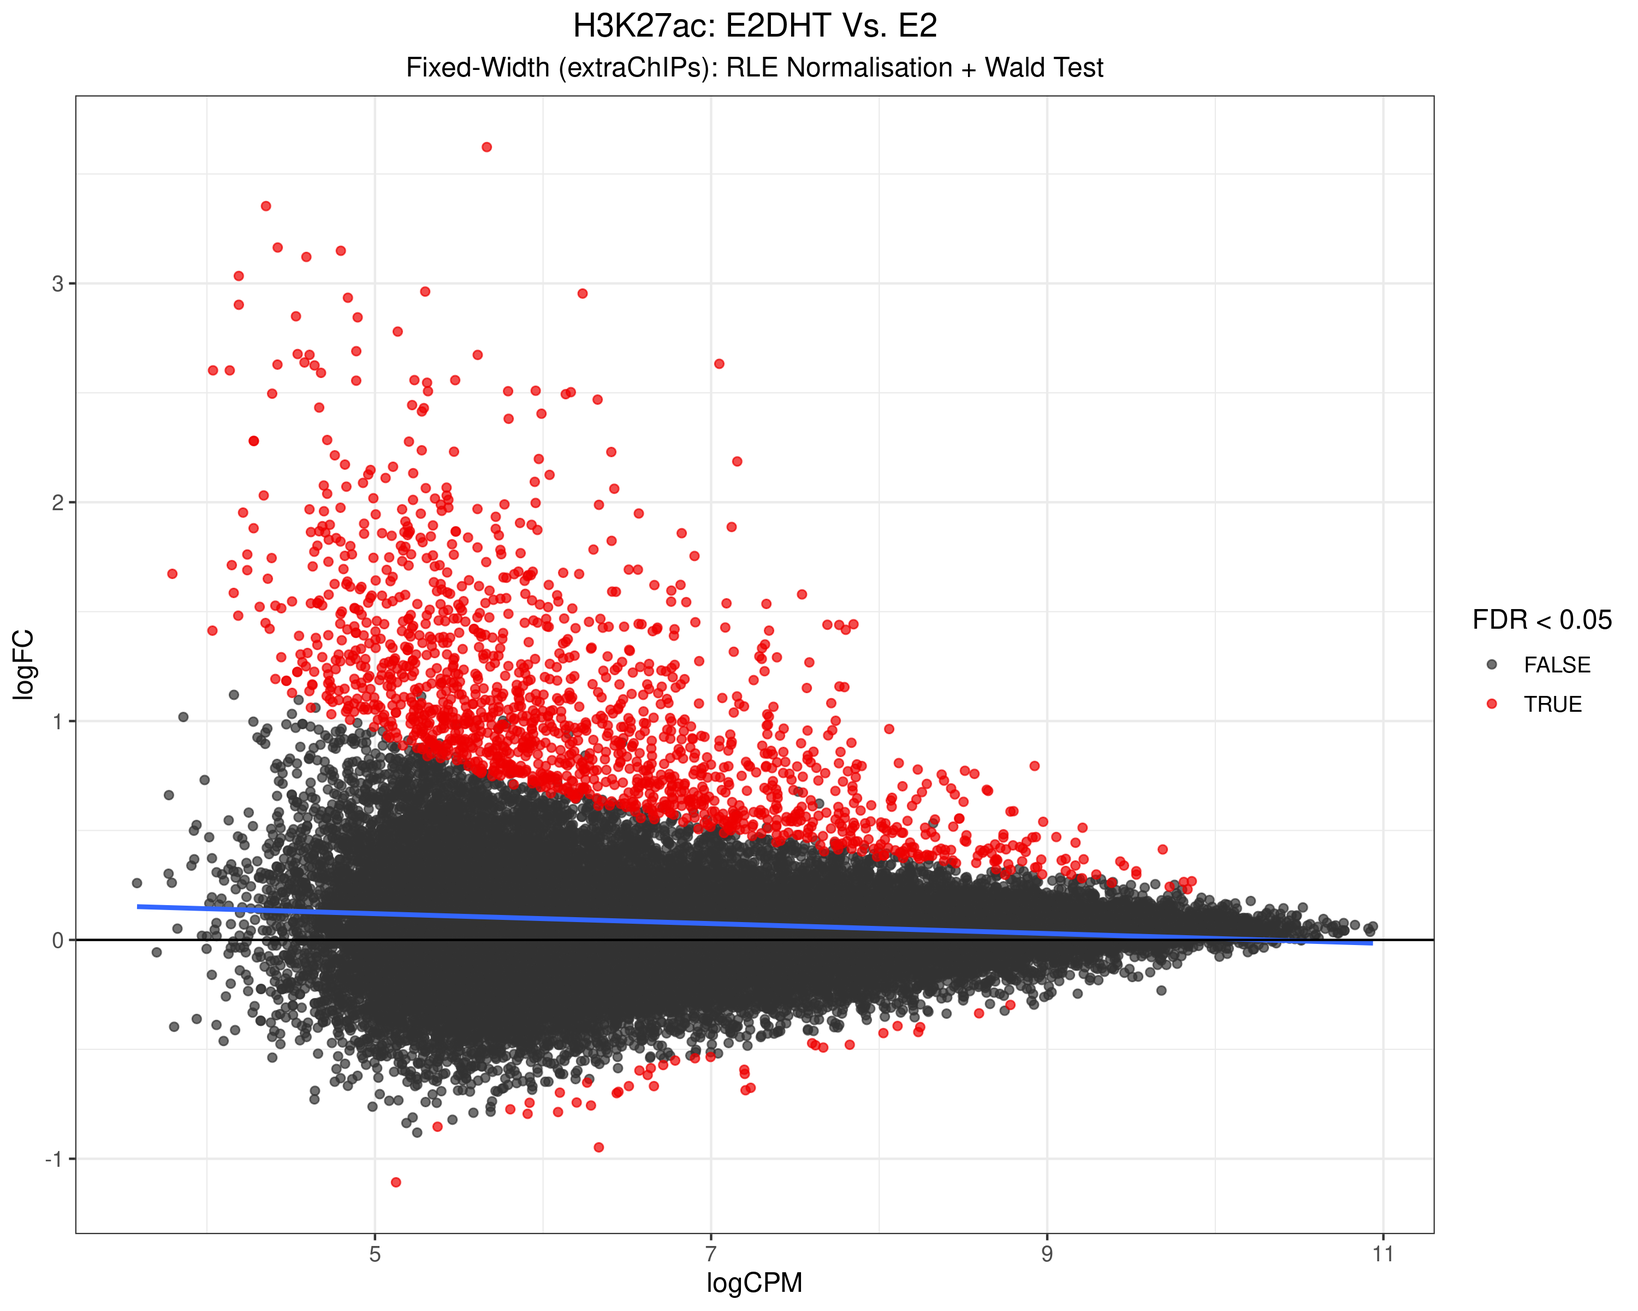
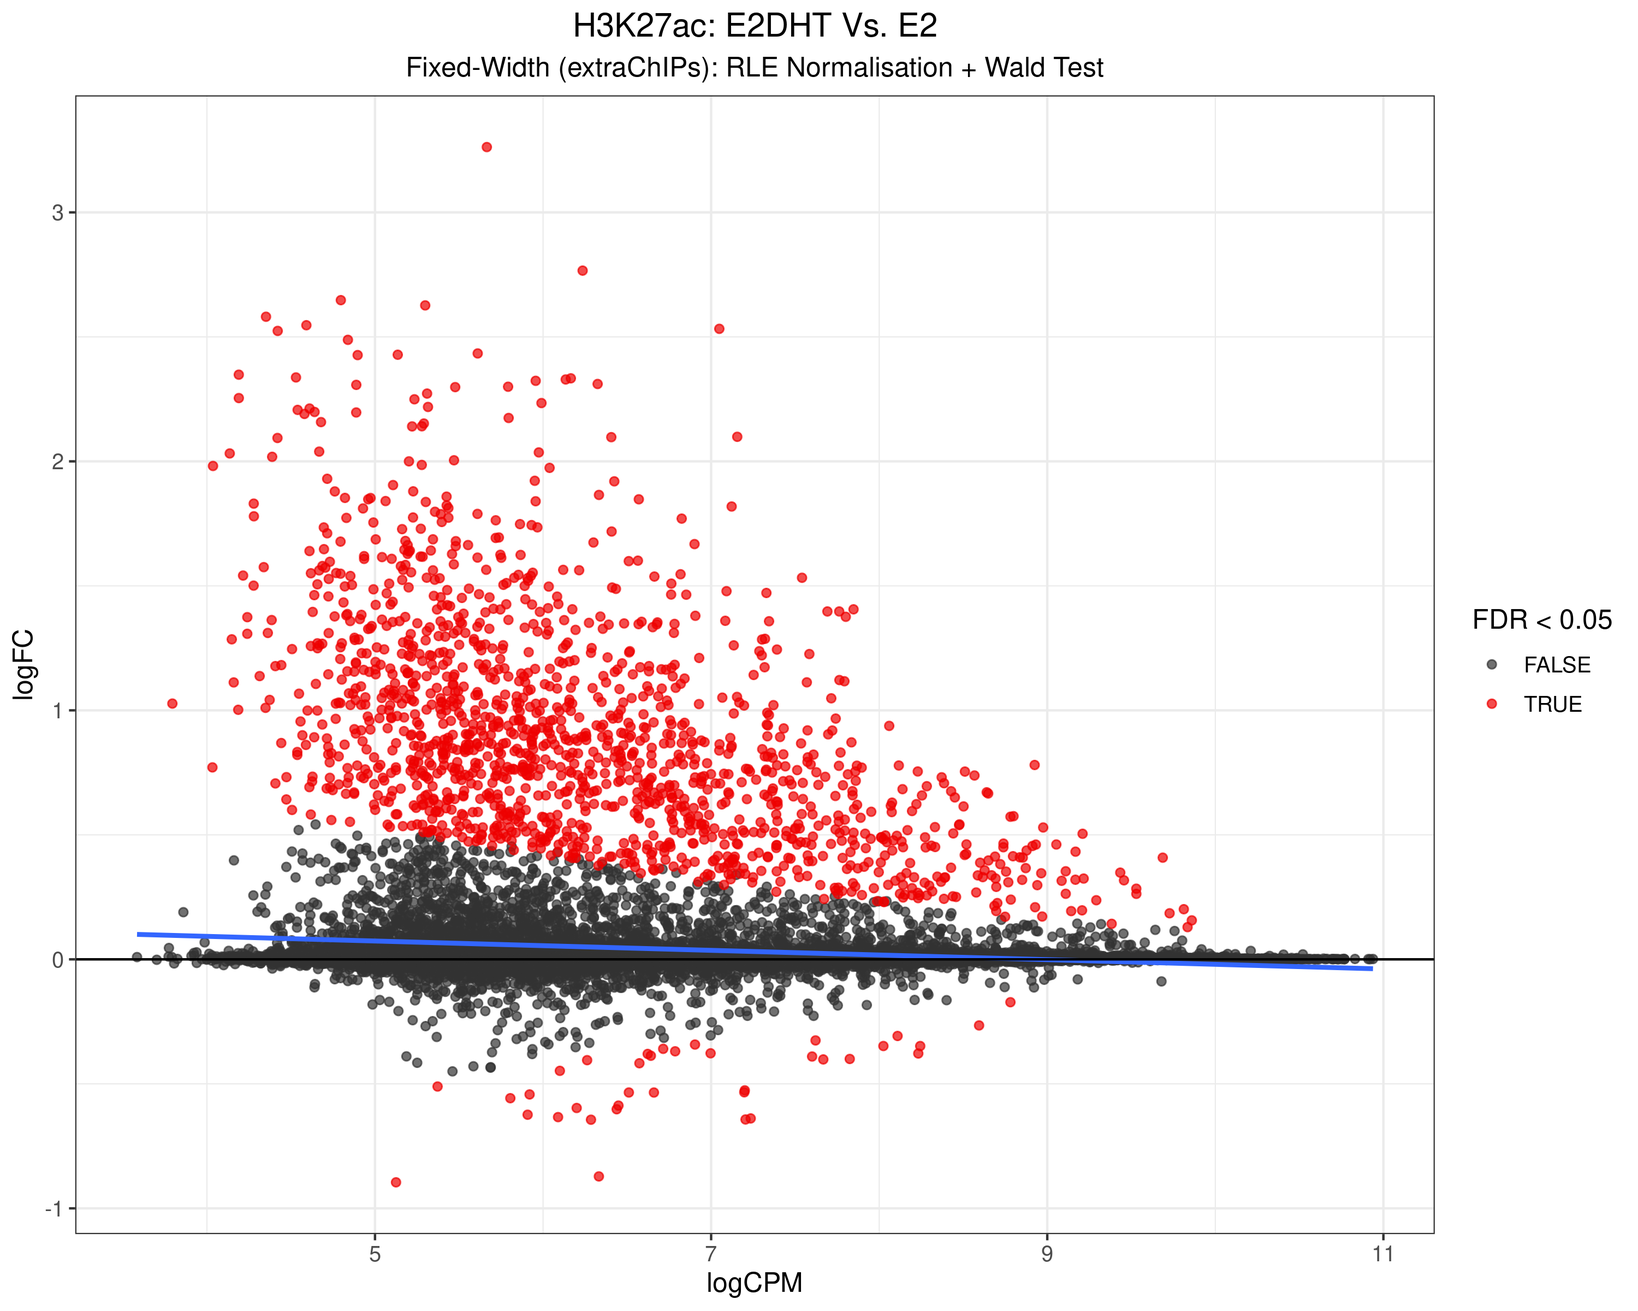
Rewrote after updating extraChIPs

Changed region(s): [[0.062, 0.2188, 0.868, 0.875], [0.31, 0.2812, 0.372, 0.3125]]

diff --git a/docs/zr75_ar_e2_e2dht.html b/docs/zr75_ar_e2_e2dht.html
@@ -1113,6 +1113,7 @@ ec_sw_params &lt;- ec_sw_tbl_params %&gt;%
   lapply(
     \(x) {
       x$design &lt;- X
+      x$type &lt;- &quot;ashr&quot;
       x[!names(x) %in% c(&quot;abbr&quot;, &quot;quantro_flag&quot;)]
     }
   )
@@ -1363,8 +1364,8 @@ browsable(tagList(cp, tbl))</code></pre>
 <caption>
 <em>Characteristics of ranges included for analysis using sliding or fixed-width windows. Ranges uniquely included in only one approach tended to be narrower with lower signal intensity,  comfirming that for ranges with strong signal, they are well-captured by either method.</em>
 </caption>
-<div class="reactable html-widget html-fill-item" id="htmlwidget-bdb7863a3d3afbd042b6" style="width:auto;height:auto;"></div>
-<script type="application/json" data-for="htmlwidget-bdb7863a3d3afbd042b6">{"x":{"tag":{"name":"Reactable","attribs":{"data":{"detected":["Both","Sliding Only","Fixed Only"],"n":[14399,6549,329],"sliding_total":[6615.8,1554.65,"NA"],"fixed_total":[4934.308,"NA",71.78],"sliding_w":[450,200,"NA"],"fixed_w":[312,"NA",207],"sliding_logCPM":[-0.487736039510811,-0.85068546419633,"NA"],"fixed_logCPM":[0.0491523793471069,"NA",-0.854809276201809]},"columns":[{"id":"detected","name":"Detected In","type":"character"},{"id":"n","name":"Total Ranges","type":"numeric"},{"id":"sliding_total","name":"Sliding","type":"numeric","format":{"cell":{"digits":1,"separators":true},"aggregated":{"digits":1,"separators":true}}},{"id":"fixed_total","name":"Fixed","type":"numeric","format":{"cell":{"digits":1,"separators":true},"aggregated":{"digits":1,"separators":true}}},{"id":"sliding_w","name":"Sliding","type":"numeric","format":{"cell":{"separators":true},"aggregated":{"separators":true}}},{"id":"fixed_w","name":"Fixed","type":"numeric","format":{"cell":{"separators":true},"aggregated":{"separators":true}}},{"id":"sliding_logCPM","name":"Sliding","type":"numeric","format":{"cell":{"digits":3},"aggregated":{"digits":3}}},{"id":"fixed_logCPM","name":"Fixed","type":"numeric","format":{"cell":{"digits":3},"aggregated":{"digits":3}}}],"columnGroups":[{"name":"Total Width (kb)","columns":["sliding_total","fixed_total"]},{"name":"Median Width (bp)","columns":["sliding_w","fixed_w"]},{"name":"Median logCPM","columns":["sliding_logCPM","fixed_logCPM"]}],"dataKey":"8f08ee4feb78560cad386740e4039c84"},"children":[]},"class":"reactR_markup"},"evals":[],"jsHooks":[]}</script>
+<div class="reactable html-widget html-fill-item" id="htmlwidget-ed89d667f3ad896512f7" style="width:auto;height:auto;"></div>
+<script type="application/json" data-for="htmlwidget-ed89d667f3ad896512f7">{"x":{"tag":{"name":"Reactable","attribs":{"data":{"detected":["Both","Sliding Only","Fixed Only"],"n":[14399,6549,329],"sliding_total":[6615.8,1554.65,"NA"],"fixed_total":[4934.308,"NA",71.78],"sliding_w":[450,200,"NA"],"fixed_w":[312,"NA",207],"sliding_logCPM":[-0.487736039510811,-0.85068546419633,"NA"],"fixed_logCPM":[0.0491523793471069,"NA",-0.854809276201809]},"columns":[{"id":"detected","name":"Detected In","type":"character"},{"id":"n","name":"Total Ranges","type":"numeric"},{"id":"sliding_total","name":"Sliding","type":"numeric","format":{"cell":{"digits":1,"separators":true},"aggregated":{"digits":1,"separators":true}}},{"id":"fixed_total","name":"Fixed","type":"numeric","format":{"cell":{"digits":1,"separators":true},"aggregated":{"digits":1,"separators":true}}},{"id":"sliding_w","name":"Sliding","type":"numeric","format":{"cell":{"separators":true},"aggregated":{"separators":true}}},{"id":"fixed_w","name":"Fixed","type":"numeric","format":{"cell":{"separators":true},"aggregated":{"separators":true}}},{"id":"sliding_logCPM","name":"Sliding","type":"numeric","format":{"cell":{"digits":3},"aggregated":{"digits":3}}},{"id":"fixed_logCPM","name":"Fixed","type":"numeric","format":{"cell":{"digits":3},"aggregated":{"digits":3}}}],"columnGroups":[{"name":"Total Width (kb)","columns":["sliding_total","fixed_total"]},{"name":"Median Width (bp)","columns":["sliding_w","fixed_w"]},{"name":"Median logCPM","columns":["sliding_logCPM","fixed_logCPM"]}],"dataKey":"8f08ee4feb78560cad386740e4039c84"},"children":[]},"class":"reactR_markup"},"evals":[],"jsHooks":[]}</script>
 <div id="range-widths" class="section level4">
 <h4>Range Widths</h4>
 <pre class="r"><code>GRangesList(
@@ -2167,7 +2168,7 @@ tbl &lt;- all_sig %&gt;%
     quantro_status = case_when(
       grepl(sprintf(&quot;^\u02D9&quot;), quantro_flag ) ~ &quot;Caution&quot;,
       grepl(&quot;^\\*&quot;, quantro_flag) ~ &quot;Inappropriate&quot;,
-      TRUE ~ &quot;Appropriate&quot;
+      TRUE ~ &quot;Suitable&quot;
     )
   ) %&gt;% 
   arrange(desc(value)) %&gt;% 
@@ -2217,7 +2218,7 @@ analysis. The status of the model as assessed using quantro is provided in
 the final column.</em>
 </caption>
 <div class="reactable html-widget html-fill-item" id="tbl-ranks" style="width:auto;height:auto;"></div>
-<script type="application/json" data-for="tbl-ranks">{"x":{"tag":{"name":"Reactable","attribs":{"data":{"rank":[1,2,3,4,5,6,7,8,9,10,11,12,13,14,15,16],"package":["extraChIPs","extraChIPs","extraChIPs","extraChIPs","extraChIPs","extraChIPs","extraChIPs","extraChIPs","DiffBind","extraChIPs","extraChIPs","extraChIPs","extraChIPs","extraChIPs","DiffBind","extraChIPs"],"windows":["Sliding","Sliding","Sliding","Fixed-Width","Fixed-Width","Fixed-Width","Sliding","Fixed-Width","Fixed-Width","Sliding","Sliding","Fixed-Width","Fixed-Width","Sliding","Fixed-Width","Fixed-Width"],"norm":["Library Size","Library Size","Smooth Quantile","Library Size","Library Size","RLE-Grouped","Library Size","Library Size","Library Size","RLE","RLE","RLE","RLE","RLE","RLE","RLE"],"method":["glmQLF","limma-trend","limma-trend","limma-trend","glmQLF","glmQLF","Wald Test","Wald Test","Wald Test","glmQLF","limma-trend","glmQLF","limma-trend","Wald Test","Wald Test","Wald Test"],"assay":["counts","logCPM","qsmooth","logCPM","counts","counts","counts","counts","counts","counts","logCPM (RLE)","counts","logCPM (RLE)","counts","counts","counts"],"n_sig":[14499,14474,14406,12832,12824,12799,12529,12216,12201,8470,6298,5748,4823,4376,4016,3905],"range_null":[13244,12903,12749,12004,12102,12065,15087,14532,11437,6242,3790,3994,2983,2307,2673,2642],"quantro_status":["Appropriate","Appropriate","Appropriate","Appropriate","Appropriate","Appropriate","Appropriate","Appropriate","Appropriate","Inappropriate","Inappropriate","Inappropriate","Inappropriate","Inappropriate","Inappropriate","Inappropriate"]},"columns":[{"id":"rank","name":"Rank","type":"numeric","html":true,"filterMethod":"function(rows, columnId, filterValue) {\n    return rows.filter(function(row) {\n      return row.values[columnId] <= filterValue\n    })\n  }","maxWidth":70},{"id":"package","name":"R Package","type":"character","html":true,"maxWidth":100},{"id":"windows","name":"Window Type","type":"character","html":true,"maxWidth":100},{"id":"norm","name":"Normalisation","type":"character","html":true,"minWidth":100},{"id":"method","name":"Analytic Approach","type":"character","html":true,"minWidth":100},{"id":"assay","name":"Assay","type":"character","html":true,"maxWidth":120},{"id":"n_sig","name":"Point H<sub>0<\/sub>","type":"numeric","html":true,"filterMethod":"function(rows, columnId, filterValue) {\n    return rows.filter(function(row) {\n      return row.values[columnId] >= filterValue\n    })\n  }","format":{"cell":{"separators":true},"aggregated":{"separators":true}},"maxWidth":90},{"id":"range_null","name":"Range H<sub>0<\/sub>","type":"numeric","html":true,"filterMethod":"function(rows, columnId, filterValue) {\n    return rows.filter(function(row) {\n      return row.values[columnId] >= filterValue\n    })\n  }","format":{"cell":{"separators":true},"aggregated":{"separators":true}},"maxWidth":90},{"id":"quantro_status","name":"Status","type":"character","html":true,"maxWidth":100,"style":[{"backgroundColor":"lightgreen"},{"backgroundColor":"lightgreen"},{"backgroundColor":"lightgreen"},{"backgroundColor":"lightgreen"},{"backgroundColor":"lightgreen"},{"backgroundColor":"lightgreen"},{"backgroundColor":"lightgreen"},{"backgroundColor":"lightgreen"},{"backgroundColor":"lightgreen"},{"backgroundColor":"red"},{"backgroundColor":"red"},{"backgroundColor":"red"},{"backgroundColor":"red"},{"backgroundColor":"red"},{"backgroundColor":"red"},{"backgroundColor":"red"}]}],"columnGroups":[{"name":"Significant Sites","columns":["n_sig","range_null"]}],"filterable":true,"pagination":false,"showPageSizeOptions":false,"theme":{"style":{"fontSize":13}},"elementId":"tbl-ranks","dataKey":"ed064d16197c2ac91543214944ab1c3e"},"children":[]},"class":"reactR_markup"},"evals":["tag.attribs.columns.0.filterMethod","tag.attribs.columns.6.filterMethod","tag.attribs.columns.7.filterMethod"],"jsHooks":[]}</script>
+<script type="application/json" data-for="tbl-ranks">{"x":{"tag":{"name":"Reactable","attribs":{"data":{"rank":[1,2,3,4,5,6,7,8,9,10,11,12,13,14,15,16],"package":["extraChIPs","extraChIPs","extraChIPs","extraChIPs","extraChIPs","extraChIPs","extraChIPs","extraChIPs","DiffBind","extraChIPs","extraChIPs","extraChIPs","extraChIPs","extraChIPs","DiffBind","extraChIPs"],"windows":["Sliding","Sliding","Sliding","Fixed-Width","Fixed-Width","Fixed-Width","Sliding","Fixed-Width","Fixed-Width","Sliding","Sliding","Fixed-Width","Fixed-Width","Sliding","Fixed-Width","Fixed-Width"],"norm":["Library Size","Library Size","Smooth Quantile","Library Size","Library Size","RLE-Grouped","Library Size","Library Size","Library Size","RLE","RLE","RLE","RLE","RLE","RLE","RLE"],"method":["glmQLF","limma-trend","limma-trend","limma-trend","glmQLF","glmQLF","Wald Test","Wald Test","Wald Test","glmQLF","limma-trend","glmQLF","limma-trend","Wald Test","Wald Test","Wald Test"],"assay":["counts","logCPM","qsmooth","logCPM","counts","counts","counts","counts","counts","counts","logCPM (RLE)","counts","logCPM (RLE)","counts","counts","counts"],"n_sig":[14499,14474,14406,12832,12824,12799,12529,12216,12201,8470,6298,5748,4823,4376,4016,3905],"range_null":[13244,12903,12749,12004,12102,12065,11482,11523,11437,6242,3790,3994,2983,2613,2673,2404],"quantro_status":["Suitable","Suitable","Suitable","Suitable","Suitable","Suitable","Suitable","Suitable","Suitable","Inappropriate","Inappropriate","Inappropriate","Inappropriate","Inappropriate","Inappropriate","Inappropriate"]},"columns":[{"id":"rank","name":"Rank","type":"numeric","html":true,"filterMethod":"function(rows, columnId, filterValue) {\n    return rows.filter(function(row) {\n      return row.values[columnId] <= filterValue\n    })\n  }","maxWidth":70},{"id":"package","name":"R Package","type":"character","html":true,"maxWidth":100},{"id":"windows","name":"Window Type","type":"character","html":true,"maxWidth":100},{"id":"norm","name":"Normalisation","type":"character","html":true,"minWidth":100},{"id":"method","name":"Analytic Approach","type":"character","html":true,"minWidth":100},{"id":"assay","name":"Assay","type":"character","html":true,"maxWidth":120},{"id":"n_sig","name":"Point H<sub>0<\/sub>","type":"numeric","html":true,"filterMethod":"function(rows, columnId, filterValue) {\n    return rows.filter(function(row) {\n      return row.values[columnId] >= filterValue\n    })\n  }","format":{"cell":{"separators":true},"aggregated":{"separators":true}},"maxWidth":90},{"id":"range_null","name":"Range H<sub>0<\/sub>","type":"numeric","html":true,"filterMethod":"function(rows, columnId, filterValue) {\n    return rows.filter(function(row) {\n      return row.values[columnId] >= filterValue\n    })\n  }","format":{"cell":{"separators":true},"aggregated":{"separators":true}},"maxWidth":90},{"id":"quantro_status","name":"Status","type":"character","html":true,"maxWidth":100,"style":[{"backgroundColor":"lightgreen"},{"backgroundColor":"lightgreen"},{"backgroundColor":"lightgreen"},{"backgroundColor":"lightgreen"},{"backgroundColor":"lightgreen"},{"backgroundColor":"lightgreen"},{"backgroundColor":"lightgreen"},{"backgroundColor":"lightgreen"},{"backgroundColor":"lightgreen"},{"backgroundColor":"red"},{"backgroundColor":"red"},{"backgroundColor":"red"},{"backgroundColor":"red"},{"backgroundColor":"red"},{"backgroundColor":"red"},{"backgroundColor":"red"}]}],"columnGroups":[{"name":"Significant Sites","columns":["n_sig","range_null"]}],"filterable":true,"pagination":false,"showPageSizeOptions":false,"theme":{"style":{"fontSize":13}},"elementId":"tbl-ranks","dataKey":"304c6867ca391e5bd77f7d9d7f388b35"},"children":[]},"class":"reactR_markup"},"evals":["tag.attribs.columns.0.filterMethod","tag.attribs.columns.6.filterMethod","tag.attribs.columns.7.filterMethod"],"jsHooks":[]}</script>
 </div>
 <div id="references" class="section level2">
 <h2>References</h2>
@@ -2281,7 +2282,7 @@ Session information </button>
 <em>Rsamtools(v.2.20.0)</em>, <em>Biostrings(v.2.72.1)</em>,
 <em>XVector(v.0.44.0)</em>, <em>glue(v.1.7.0)</em>,
 <em>scales(v.1.3.0)</em>, <em>htmltools(v.0.5.8.1)</em>,
-<em>reactable(v.0.4.4)</em>, <em>extraChIPs(v.1.9.3)</em>,
+<em>reactable(v.0.4.4)</em>, <em>extraChIPs(v.1.8.3)</em>,
 <em>ggside(v.0.3.1)</em>, <em>BiocParallel(v.1.38.0)</em>,
 <em>DiffBind(v.3.14.0)</em>, <em>SummarizedExperiment(v.1.34.0)</em>,
 <em>Biobase(v.2.64.0)</em>, <em>MatrixGenerics(v.1.16.0)</em>,
@@ -2295,58 +2296,58 @@ Session information </button>
 <em>ggplot2(v.3.5.1)</em> and <em>tidyverse(v.2.0.0)</em></p>
 <p><strong>loaded via a namespace (and not attached):</strong>
 <em>ProtGenerics(v.1.36.0)</em>, <em>bitops(v.1.0-7)</em>,
-<em>fontawesome(v.0.5.2)</em>, <em>httr(v.1.4.7)</em>,
-<em>RColorBrewer(v.1.1-3)</em>, <em>InteractionSet(v.1.32.0)</em>,
-<em>numDeriv(v.2016.8-1.1)</em>, <em>doRNG(v.1.8.6)</em>,
-<em>tools(v.4.4.0)</em>, <em>backports(v.1.5.0)</em>,
-<em>utf8(v.1.2.4)</em>, <em>R6(v.2.5.1)</em>,
-<em>HDF5Array(v.1.32.0)</em>, <em>mgcv(v.1.9-1)</em>,
-<em>lazyeval(v.0.2.2)</em>, <em>Gviz(v.1.48.0)</em>,
-<em>rhdf5filters(v.1.16.0)</em>, <em>apeglm(v.1.26.1)</em>,
-<em>withr(v.3.0.0)</em>, <em>prettyunits(v.1.2.0)</em>,
-<em>gridExtra(v.2.3)</em>, <em>base64(v.2.0.1)</em>,
-<em>preprocessCore(v.1.66.0)</em>, <em>VennDiagram(v.1.7.3)</em>,
-<em>cli(v.3.6.3)</em>, <em>formatR(v.1.14)</em>,
-<em>labeling(v.0.4.3)</em>, <em>sass(v.0.4.9)</em>,
-<em>SQUAREM(v.2021.1)</em>, <em>mvtnorm(v.1.2-5)</em>,
-<em>genefilter(v.1.86.0)</em>, <em>askpass(v.1.2.0)</em>,
-<em>mixsqp(v.0.3-54)</em>, <em>foreign(v.0.8-87)</em>,
-<em>illuminaio(v.0.46.0)</em>, <em>siggenes(v.1.78.0)</em>,
-<em>dichromat(v.2.0-0.1)</em>, <em>scrime(v.1.3.5)</em>,
-<em>BSgenome(v.1.72.0)</em>, <em>invgamma(v.1.1)</em>,
-<em>bbmle(v.1.0.25.1)</em>, <em>rstudioapi(v.0.16.0)</em>,
-<em>RSQLite(v.2.3.7)</em>, <em>generics(v.0.1.3)</em>,
-<em>BiocIO(v.1.14.0)</em>, <em>hwriter(v.1.3.2.1)</em>,
-<em>crosstalk(v.1.2.1)</em>, <em>vroom(v.1.6.5)</em>,
-<em>gtools(v.3.9.5)</em>, <em>Matrix(v.1.6-5)</em>,
-<em>interp(v.1.1-6)</em>, <em>futile.logger(v.1.4.3)</em>,
-<em>fansi(v.1.0.6)</em>, <em>abind(v.1.4-5)</em>,
-<em>lifecycle(v.1.0.4)</em>, <em>yaml(v.2.3.9)</em>,
-<em>rhdf5(v.2.48.0)</em>, <em>gplots(v.3.1.3.1)</em>,
-<em>SparseArray(v.1.4.8)</em>, <em>BiocFileCache(v.2.12.0)</em>,
-<em>grid(v.4.4.0)</em>, <em>blob(v.1.2.4)</em>,
-<em>crayon(v.1.5.3)</em>, <em>bdsmatrix(v.1.3-7)</em>,
-<em>pwalign(v.1.0.0)</em>, <em>lattice(v.0.22-6)</em>,
-<em>ComplexUpset(v.1.3.3)</em>, <em>annotate(v.1.82.0)</em>,
-<em>GenomicFeatures(v.1.56.0)</em>, <em>KEGGREST(v.1.44.1)</em>,
-<em>beanplot(v.1.3.1)</em>, <em>pillar(v.1.9.0)</em>,
-<em>knitr(v.1.48)</em>, <em>metapod(v.1.12.0)</em>,
-<em>rjson(v.0.2.21)</em>, <em>systemPipeR(v.2.10.0)</em>,
-<em>codetools(v.0.2-20)</em>, <em>ShortRead(v.1.62.0)</em>,
-<em>GreyListChIP(v.1.36.0)</em>, <em>data.table(v.1.15.4)</em>,
-<em>vctrs(v.0.6.5)</em>, <em>png(v.0.1-8)</em>,
-<em>gtable(v.0.3.5)</em>, <em>reactR(v.0.6.0)</em>,
-<em>amap(v.0.8-19)</em>, <em>emdbook(v.1.3.13)</em>,
-<em>cachem(v.1.1.0)</em>, <em>xfun(v.0.46)</em>,
-<em>S4Arrays(v.1.4.1)</em>, <em>coda(v.0.19-4.1)</em>,
-<em>survival(v.3.7-0)</em>, <em>statmod(v.1.5.0)</em>,
-<em>GenomicInteractions(v.1.38.0)</em>, <em>nlme(v.3.1-165)</em>,
-<em>bit64(v.4.0.5)</em>, <em>progress(v.1.2.3)</em>,
-<em>filelock(v.1.0.3)</em>, <em>rprojroot(v.2.0.4)</em>,
-<em>nor1mix(v.1.3-3)</em>, <em>bslib(v.0.7.0)</em>,
-<em>irlba(v.2.3.5.1)</em>, <em>KernSmooth(v.2.23-24)</em>,
-<em>rpart(v.4.1.23)</em>, <em>colorspace(v.2.1-0)</em>,
-<em>DBI(v.1.2.3)</em>, <em>Hmisc(v.5.1-3)</em>, <em>nnet(v.7.3-19)</em>,
+<em>httr(v.1.4.7)</em>, <em>RColorBrewer(v.1.1-3)</em>,
+<em>InteractionSet(v.1.32.0)</em>, <em>numDeriv(v.2016.8-1.1)</em>,
+<em>doRNG(v.1.8.6)</em>, <em>tools(v.4.4.0)</em>,
+<em>backports(v.1.5.0)</em>, <em>utf8(v.1.2.4)</em>,
+<em>R6(v.2.5.1)</em>, <em>HDF5Array(v.1.32.0)</em>,
+<em>mgcv(v.1.9-1)</em>, <em>lazyeval(v.0.2.2)</em>,
+<em>Gviz(v.1.48.0)</em>, <em>rhdf5filters(v.1.16.0)</em>,
+<em>apeglm(v.1.26.1)</em>, <em>withr(v.3.0.0)</em>,
+<em>prettyunits(v.1.2.0)</em>, <em>gridExtra(v.2.3)</em>,
+<em>base64(v.2.0.1)</em>, <em>preprocessCore(v.1.66.0)</em>,
+<em>VennDiagram(v.1.7.3)</em>, <em>cli(v.3.6.3)</em>,
+<em>formatR(v.1.14)</em>, <em>labeling(v.0.4.3)</em>,
+<em>sass(v.0.4.9)</em>, <em>SQUAREM(v.2021.1)</em>,
+<em>mvtnorm(v.1.2-5)</em>, <em>genefilter(v.1.86.0)</em>,
+<em>askpass(v.1.2.0)</em>, <em>mixsqp(v.0.3-54)</em>,
+<em>foreign(v.0.8-87)</em>, <em>illuminaio(v.0.46.0)</em>,
+<em>siggenes(v.1.78.0)</em>, <em>dichromat(v.2.0-0.1)</em>,
+<em>scrime(v.1.3.5)</em>, <em>BSgenome(v.1.72.0)</em>,
+<em>invgamma(v.1.1)</em>, <em>bbmle(v.1.0.25.1)</em>,
+<em>rstudioapi(v.0.16.0)</em>, <em>RSQLite(v.2.3.7)</em>,
+<em>generics(v.0.1.3)</em>, <em>BiocIO(v.1.14.0)</em>,
+<em>hwriter(v.1.3.2.1)</em>, <em>crosstalk(v.1.2.1)</em>,
+<em>vroom(v.1.6.5)</em>, <em>gtools(v.3.9.5)</em>,
+<em>Matrix(v.1.6-5)</em>, <em>interp(v.1.1-6)</em>,
+<em>futile.logger(v.1.4.3)</em>, <em>fansi(v.1.0.6)</em>,
+<em>abind(v.1.4-5)</em>, <em>lifecycle(v.1.0.4)</em>,
+<em>yaml(v.2.3.9)</em>, <em>rhdf5(v.2.48.0)</em>,
+<em>gplots(v.3.1.3.1)</em>, <em>SparseArray(v.1.4.8)</em>,
+<em>BiocFileCache(v.2.12.0)</em>, <em>grid(v.4.4.0)</em>,
+<em>blob(v.1.2.4)</em>, <em>crayon(v.1.5.3)</em>,
+<em>bdsmatrix(v.1.3-7)</em>, <em>pwalign(v.1.0.0)</em>,
+<em>lattice(v.0.22-6)</em>, <em>ComplexUpset(v.1.3.3)</em>,
+<em>annotate(v.1.82.0)</em>, <em>GenomicFeatures(v.1.56.0)</em>,
+<em>KEGGREST(v.1.44.1)</em>, <em>beanplot(v.1.3.1)</em>,
+<em>pillar(v.1.9.0)</em>, <em>knitr(v.1.48)</em>,
+<em>metapod(v.1.12.0)</em>, <em>rjson(v.0.2.21)</em>,
+<em>systemPipeR(v.2.10.0)</em>, <em>codetools(v.0.2-20)</em>,
+<em>ShortRead(v.1.62.0)</em>, <em>GreyListChIP(v.1.36.0)</em>,
+<em>data.table(v.1.15.4)</em>, <em>vctrs(v.0.6.5)</em>,
+<em>png(v.0.1-8)</em>, <em>gtable(v.0.3.5)</em>,
+<em>reactR(v.0.6.0)</em>, <em>amap(v.0.8-19)</em>,
+<em>emdbook(v.1.3.13)</em>, <em>cachem(v.1.1.0)</em>,
+<em>xfun(v.0.46)</em>, <em>S4Arrays(v.1.4.1)</em>,
+<em>coda(v.0.19-4.1)</em>, <em>survival(v.3.7-0)</em>,
+<em>statmod(v.1.5.0)</em>, <em>GenomicInteractions(v.1.38.0)</em>,
+<em>nlme(v.3.1-165)</em>, <em>bit64(v.4.0.5)</em>,
+<em>progress(v.1.2.3)</em>, <em>filelock(v.1.0.3)</em>,
+<em>rprojroot(v.2.0.4)</em>, <em>nor1mix(v.1.3-3)</em>,
+<em>bslib(v.0.7.0)</em>, <em>irlba(v.2.3.5.1)</em>,
+<em>KernSmooth(v.2.23-24)</em>, <em>rpart(v.4.1.23)</em>,
+<em>colorspace(v.2.1-0)</em>, <em>DBI(v.1.2.3)</em>,
+<em>Hmisc(v.5.1-3)</em>, <em>nnet(v.7.3-19)</em>,
 <em>DESeq2(v.1.44.0)</em>, <em>tidyselect(v.1.2.1)</em>,
 <em>bit(v.4.0.5)</em>, <em>compiler(v.4.4.0)</em>,
 <em>curl(v.5.2.1)</em>, <em>httr2(v.1.0.2)</em>,
@@ -2374,19 +2375,19 @@ Session information </button>
 <em>splines(v.4.4.0)</em>, <em>multtest(v.2.60.0)</em>,
 <em>hms(v.1.1.3)</em>, <em>locfit(v.1.5-9.10)</em>,
 <em>igraph(v.2.0.3)</em>, <em>rngtools(v.1.5.2)</em>,
-<em>biomaRt(v.2.60.1)</em>, <em>pkgload(v.1.4.0)</em>,
-<em>futile.options(v.1.0.1)</em>, <em>XML(v.3.99-0.17)</em>,
-<em>evaluate(v.0.24.0)</em>, <em>latticeExtra(v.0.6-30)</em>,
-<em>biovizBase(v.1.52.0)</em>, <em>lambda.r(v.1.2.4)</em>,
-<em>tzdb(v.0.4.0)</em>, <em>tweenr(v.2.0.3)</em>,
-<em>openssl(v.2.2.0)</em>, <em>polyclip(v.1.10-6)</em>,
-<em>reshape(v.0.8.9)</em>, <em>ashr(v.2.2-63)</em>,
-<em>ggforce(v.0.4.2)</em>, <em>xtable(v.1.8-4)</em>,
-<em>broom(v.1.0.6)</em>, <em>restfulr(v.0.0.15)</em>,
-<em>AnnotationFilter(v.1.28.0)</em>, <em>truncnorm(v.1.0-9)</em>,
-<em>memoise(v.2.0.1)</em>, <em>AnnotationDbi(v.1.66.0)</em>,
-<em>cluster(v.2.1.6)</em>, <em>sva(v.3.52.0)</em>,
-<em>timechange(v.0.3.0)</em> and <em>here(v.1.0.1)</em></p>
+<em>biomaRt(v.2.60.1)</em>, <em>futile.options(v.1.0.1)</em>,
+<em>XML(v.3.99-0.17)</em>, <em>evaluate(v.0.24.0)</em>,
+<em>latticeExtra(v.0.6-30)</em>, <em>biovizBase(v.1.52.0)</em>,
+<em>lambda.r(v.1.2.4)</em>, <em>tzdb(v.0.4.0)</em>,
+<em>tweenr(v.2.0.3)</em>, <em>openssl(v.2.2.0)</em>,
+<em>polyclip(v.1.10-6)</em>, <em>reshape(v.0.8.9)</em>,
+<em>ashr(v.2.2-63)</em>, <em>ggforce(v.0.4.2)</em>,
+<em>xtable(v.1.8-4)</em>, <em>broom(v.1.0.6)</em>,
+<em>restfulr(v.0.0.15)</em>, <em>AnnotationFilter(v.1.28.0)</em>,
+<em>truncnorm(v.1.0-9)</em>, <em>memoise(v.2.0.1)</em>,
+<em>AnnotationDbi(v.1.66.0)</em>, <em>cluster(v.2.1.6)</em>,
+<em>sva(v.3.52.0)</em>, <em>timechange(v.0.3.0)</em> and
+<em>here(v.1.0.1)</em></p>
 </div>
 
 
